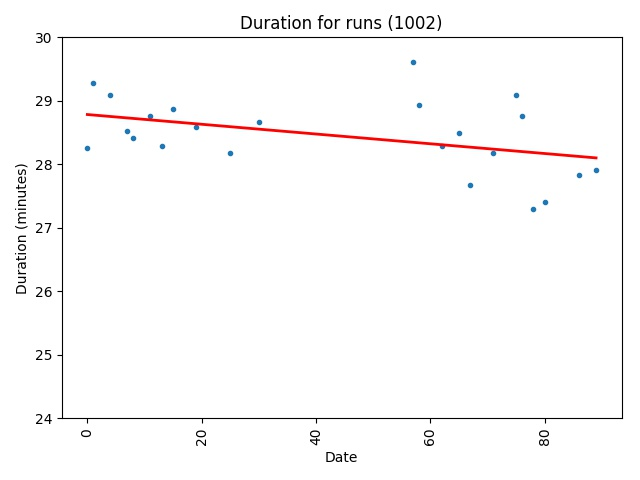
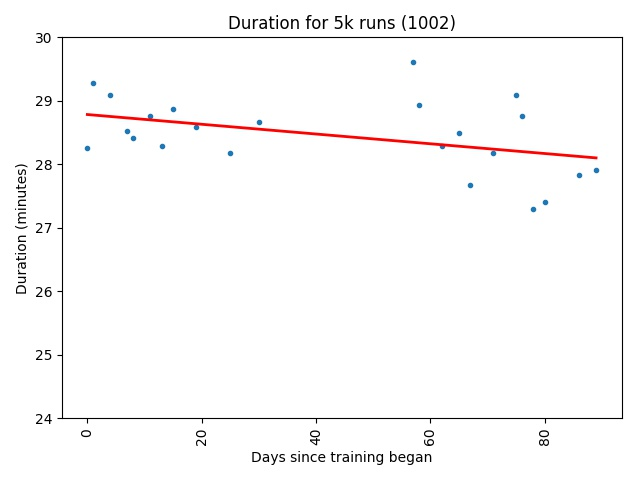
adjusted plot labels

Changed region(s): [[0.3438, 0.0312, 0.7188, 0.0625], [0.375, 0.9375, 0.6875, 0.9688]]

diff --git a/exercise/running.py b/exercise/running.py
@@ -119,8 +119,8 @@ def duration(running):
 	# make a plot
 	plt.plot(x, y, linestyle='none', marker='.')
 	plt.plot(prediction_space, y_pred, color='red', linewidth=2)
-	plt.title('Duration for runs (1002)')
-	plt.xlabel('Date')
+	plt.title('Duration for 5k runs (1002)')
+	plt.xlabel('Days since training began')
 	plt.ylabel('Duration (minutes)')
 	plt.xticks(rotation='vertical')
 	plt.ylim(24, 30)
